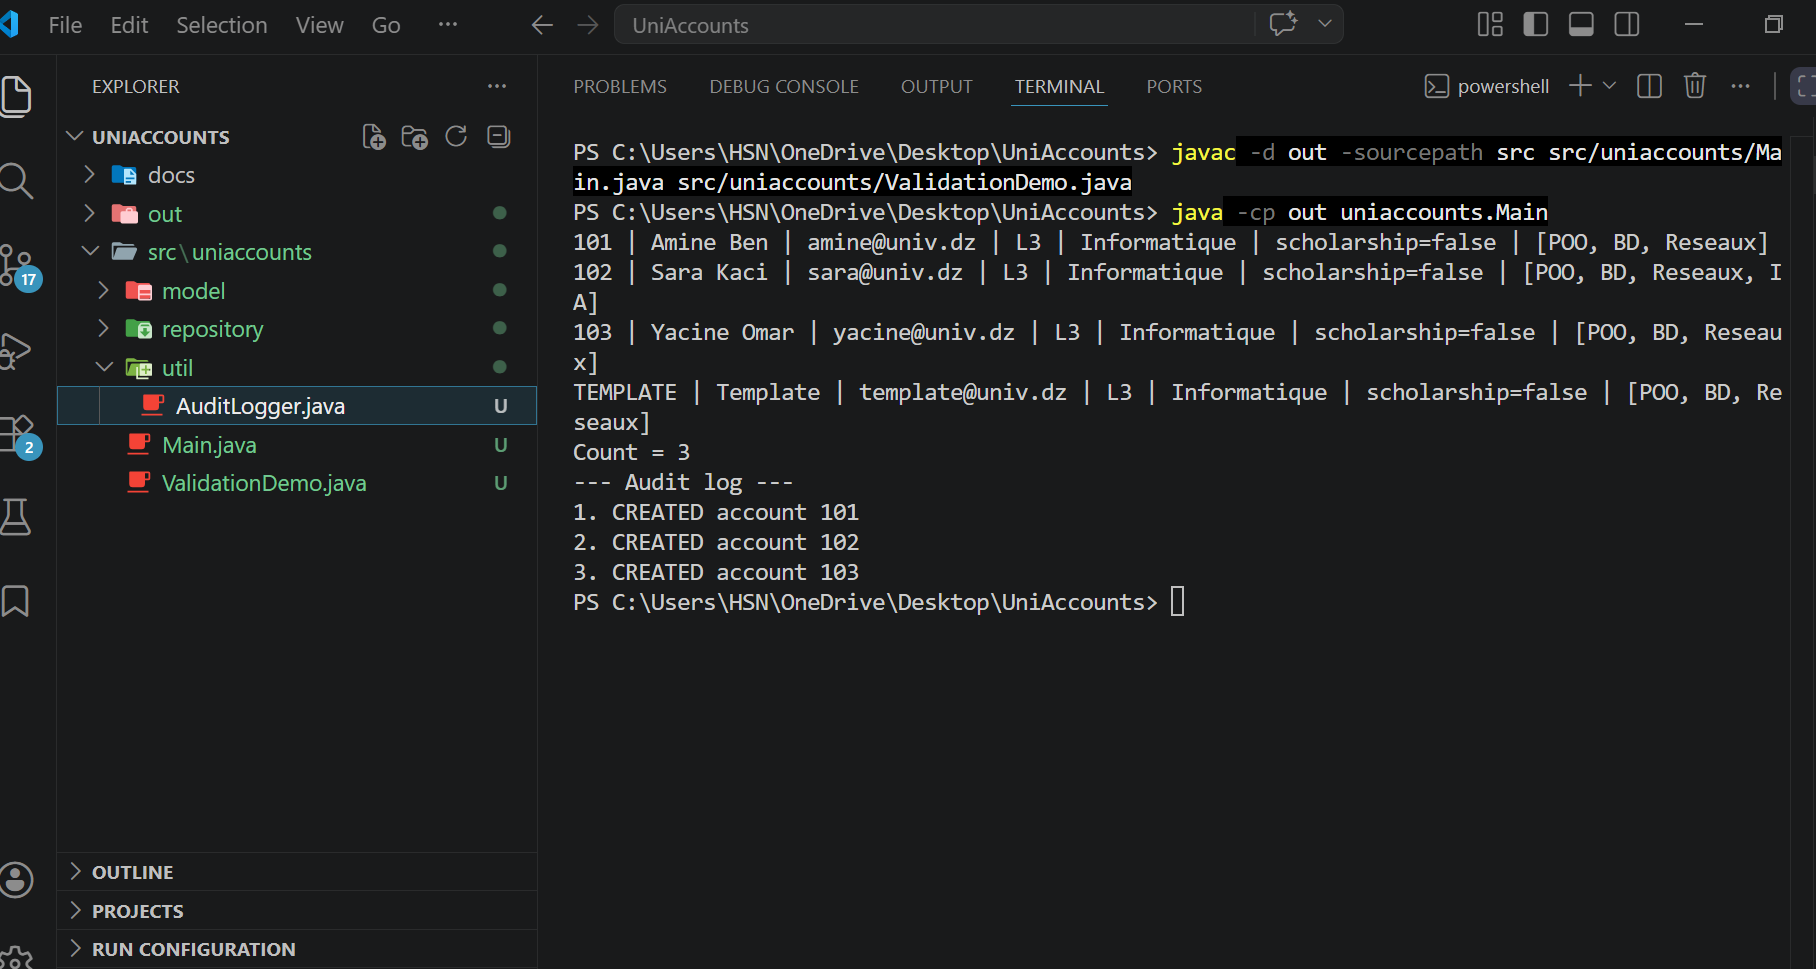
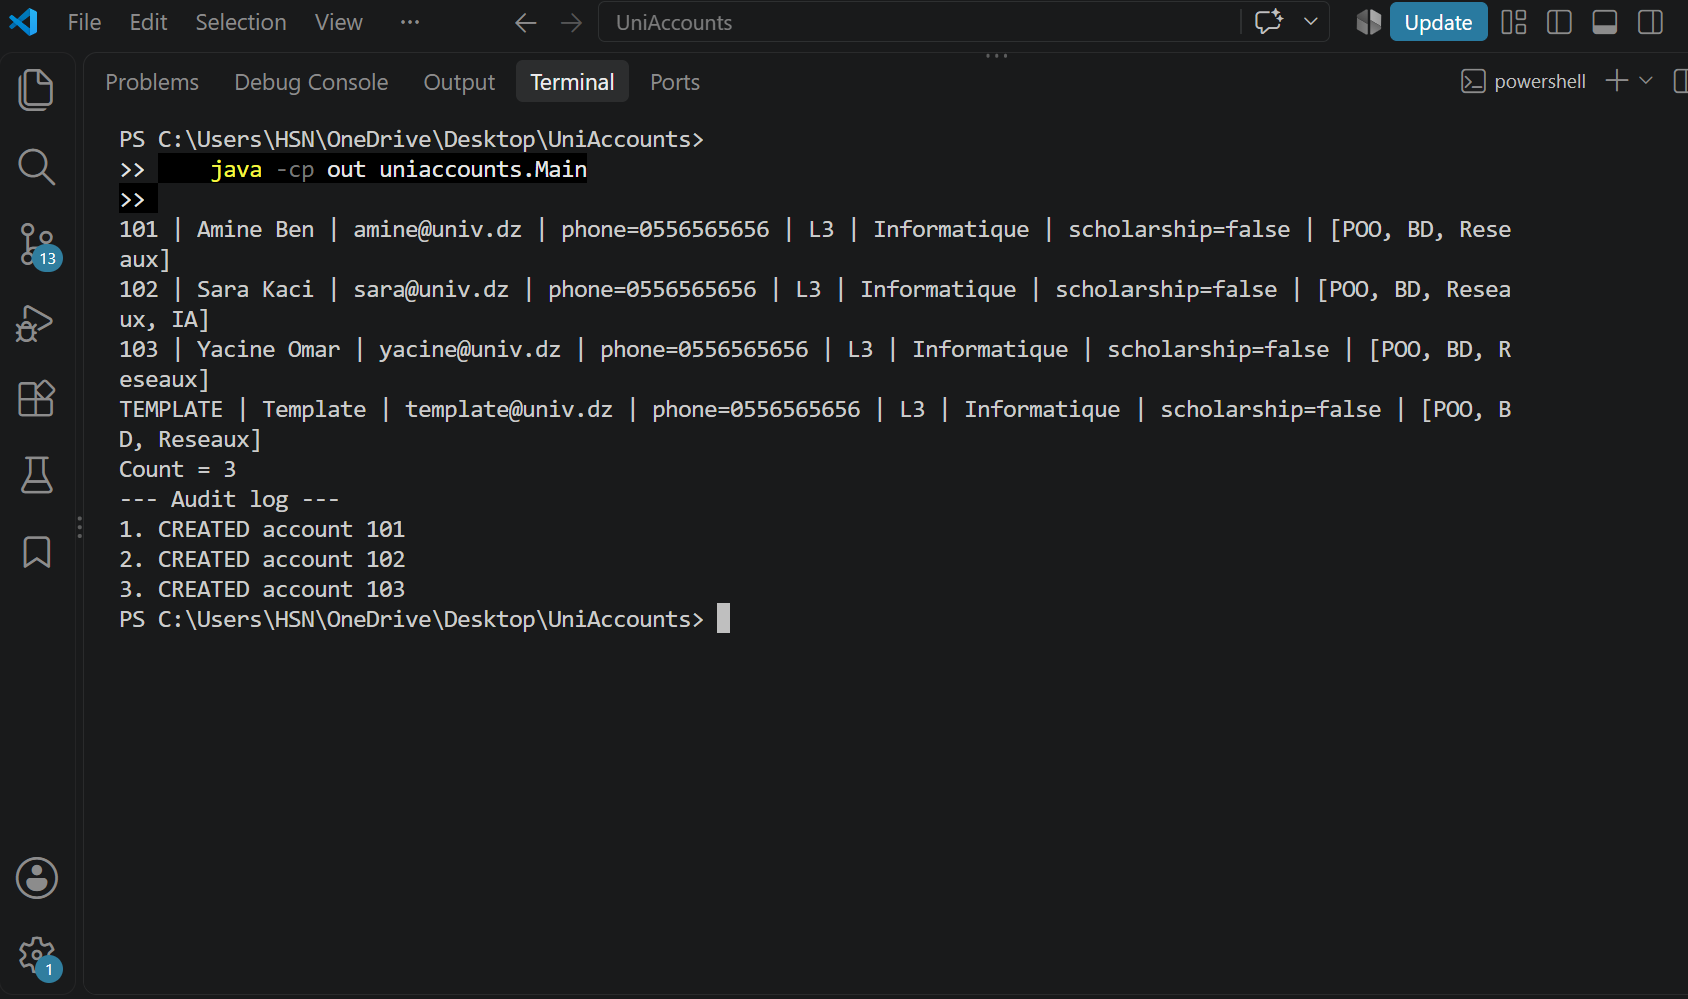
Update project code and documentation

diff --git a/src/uniaccounts/model/StudentAccount.java b/src/uniaccounts/model/StudentAccount.java
@@ -39,6 +39,7 @@ public class StudentAccount {
     // Prototype: copy the template and change only the identity (id, name, email)
     public StudentAccount cloneFor(String newId, String newFullName, String newEmail) {
         Builder b = new Builder(newId, newFullName, newEmail)
+                .phone(this.phone)
                 .level(this.level)
                 .major(this.major)
                 .scholarship(this.scholarship);
@@ -50,16 +51,15 @@ public class StudentAccount {
     }
 
     @Override
-    public String toString() {
-        return id + " | " + fullName + " | " + email + " | " + level
-                + " | " + major + " | scholarship=" + scholarship + " | " + courses;
-    }
+   
 
-    /**
-     * Pattern: Builder (ConcreteBuilder, static nested class).
-     * Mandatory fields go in the constructor, optional ones in chained methods,
-     * and build() validates the rules before creating the account.
-     */
+// nested class 
+     public String toString() {
+    return id + " | " + fullName + " | " + email
+            + " | phone=" + phone
+            + " | " + level + " | " + major
+            + " | scholarship=" + scholarship + " | " + courses;
+}
     public static class Builder {
         private final String id;
         private final String fullName;

diff --git a/src/uniaccounts/repository/AccountRepository.java b/src/uniaccounts/repository/AccountRepository.java
@@ -2,7 +2,6 @@ package uniaccounts.repository;
 
 import java.util.HashMap;
 import java.util.Map;
-
 import uniaccounts.model.StudentAccount;
 import uniaccounts.util.AuditLogger;
 
@@ -13,12 +12,12 @@ import uniaccounts.util.AuditLogger;
 public class AccountRepository {
 
     // Singleton: the single instance
-    private static AccountRepository instance;
+    private static AccountRepository instance;// يخزن النسخه الوحيده التي نريد استخامه  من المستودع
 
     private final Map<String, StudentAccount> accounts = new HashMap<>();
 
     // Singleton: private constructor
-    private AccountRepository() { }
+    private AccountRepository() { } // بهدف منع انشاء نسخه عشوايه من المستودع 
 
     // Singleton: lazy initialization
     public static AccountRepository getInstance() {

diff --git a/src/uniaccounts/ValidationDemo.java b/src/uniaccounts/ValidationDemo.java
@@ -30,7 +30,7 @@ public class ValidationDemo {
         // 3) Singleton repository rejects a duplicate id
         StudentAccount first = new StudentAccount.Builder("101", "Amine Ben", "amine@univ.dz").build();
         StudentAccount dup = new StudentAccount.Builder("101", "Other Student", "other@univ.dz").build();
-        repo.add(first);
+        repo.add(first); // طلب من المستودع انشاء الحساب الاول 
         try {
             repo.add(dup);
         } catch (IllegalStateException e) {

diff --git a/src/uniaccounts/Main.java b/src/uniaccounts/Main.java
@@ -16,6 +16,7 @@ public class Main {
         // Builder: template for an L3 Informatique cohort (not added to the repository)
         StudentAccount template = new StudentAccount.Builder(
                 "TEMPLATE", "Template", "template@univ.dz")
+                .phone("0556565656")
                 .level("L3").major("Informatique")
                 .course("POO").course("BD").course("Reseaux")
                 .build();

diff --git a/src/uniaccounts/util/AuditLogger.java b/src/uniaccounts/util/AuditLogger.java
@@ -16,7 +16,7 @@ public class AuditLogger {
     private final List<String> entries = new ArrayList<>();
 
     // Singleton: private constructor, nobody else can call "new"
-    private AuditLogger() { }
+    private AuditLogger() { } // حتى لا يستطيع اي كلاس اخر كتابة 
 
     // Singleton: lazy initialization, created on first request then always reused
     public static AuditLogger getInstance() {

diff --git a/README.md b/README.md
@@ -26,8 +26,7 @@ Open a terminal in the project root (the folder that contains src), then run the
 
 3. Run the validation demo (shows rejected email, level and duplicate id):
 
-    java -cp out uniaccounts.ValidationDemo
-
+     java -cp out uniaccounts.ValidationDemo
 ## Class diagram
 
 ![UML](docs/uml.png)
